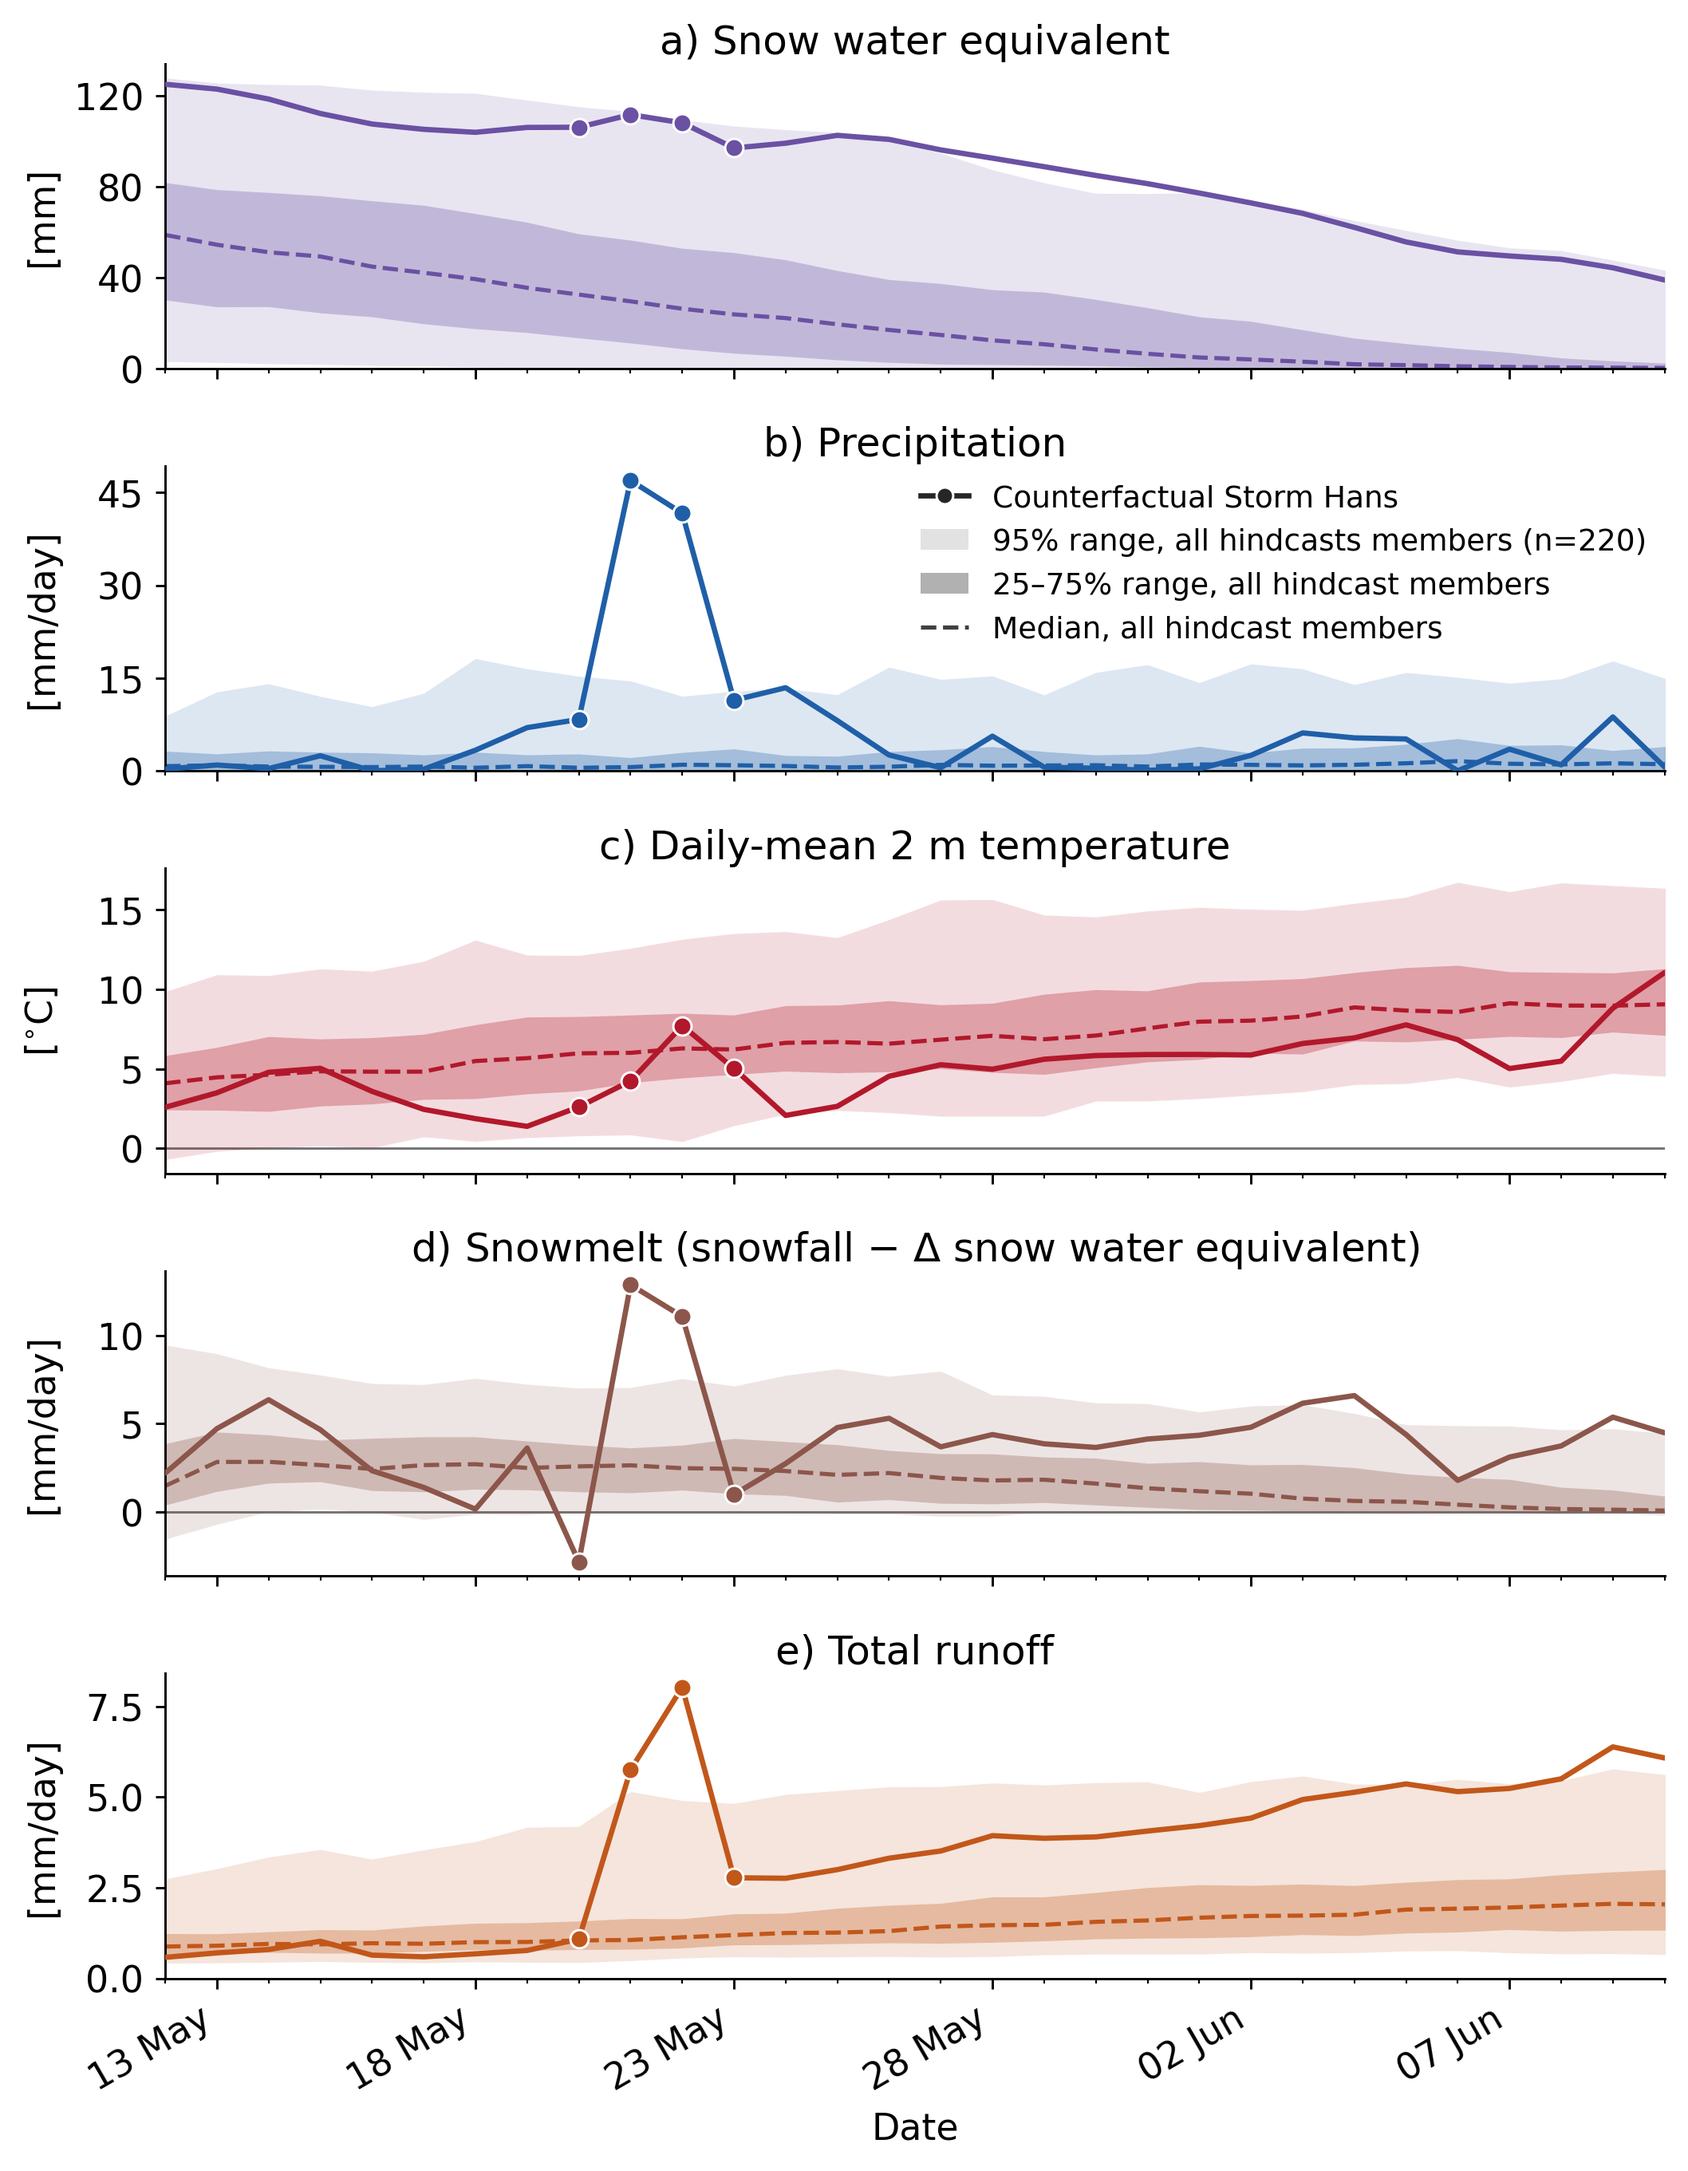
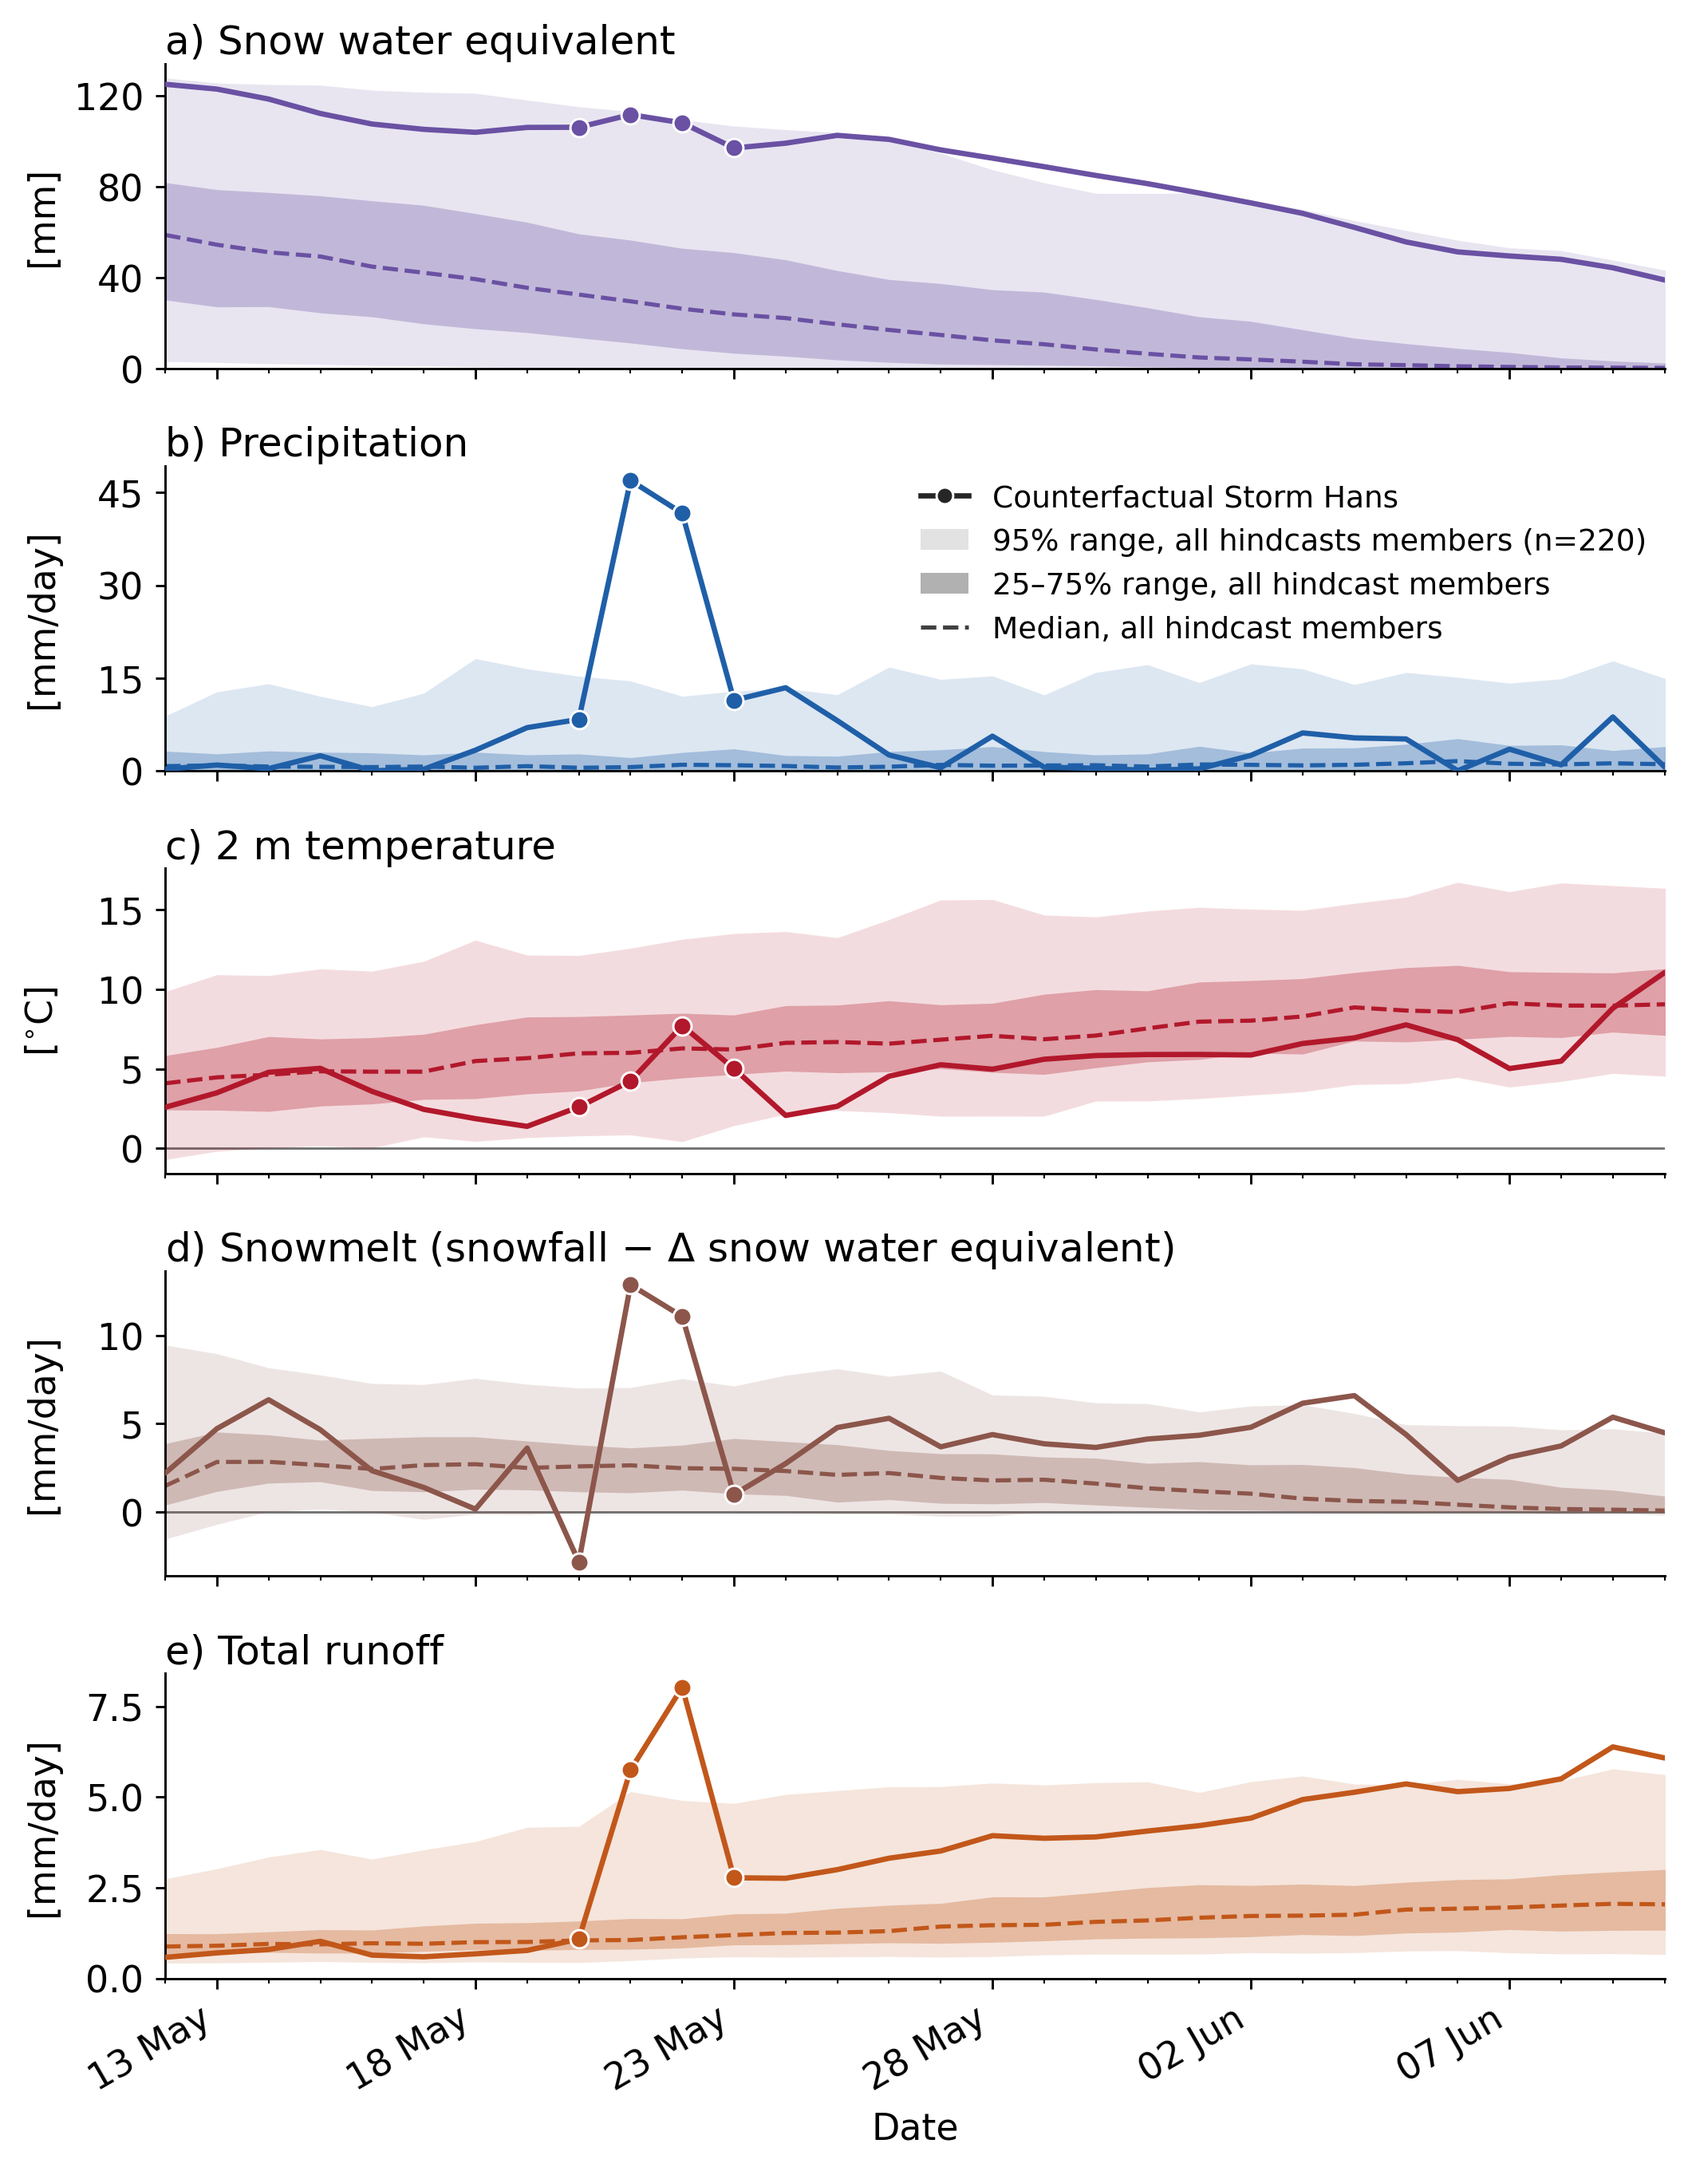
update

diff --git a/code/plot/paper_figs/plot-fig-08.py b/code/plot/paper_figs/plot-fig-08.py
@@ -97,7 +97,7 @@ MM_PER_DAY = r"[mm/day]"
 VARIABLE_DEFAULTS = {
     "tp24":   {"title": "Precipitation", "ylabel": MM_PER_DAY, "color": "#1f5fa8",
                "range_color": None, "ylim": (0, None), "zero_line": False, "yticks": None},
-    "t2m24":  {"title": "Daily-mean 2 m temperature", "ylabel": r"[$^{\circ}$C]", "color": "#b2182b",
+    "t2m24":  {"title": "2 m temperature", "ylabel": r"[$^{\circ}$C]", "color": "#b2182b",
                "range_color": None, "ylim": (None, None), "zero_line": True, "yticks": None},
     "sd":     {"title": "Snow water equivalent", "ylabel": "[mm]", "color": "#6a51a3",
                "range_color": None, "ylim": (0, None), "zero_line": False, "yticks": None},
@@ -824,7 +824,7 @@ def plot_panel(ax, series, settings, event_dates, index):
     )
     if SHOW_EVENT_DOTS:
         mark_event_days(ax, series, event_dates, settings["color"])
-    ax.set_title(make_panel_title(settings, index), loc="center", pad=3)
+    ax.set_title(make_panel_title(settings, index), loc="left", pad=3)
     ax.set_ylabel(settings["ylabel"])
     bottom, top = settings["ylim"]
     ax.set_ylim(bottom=bottom, top=top)
